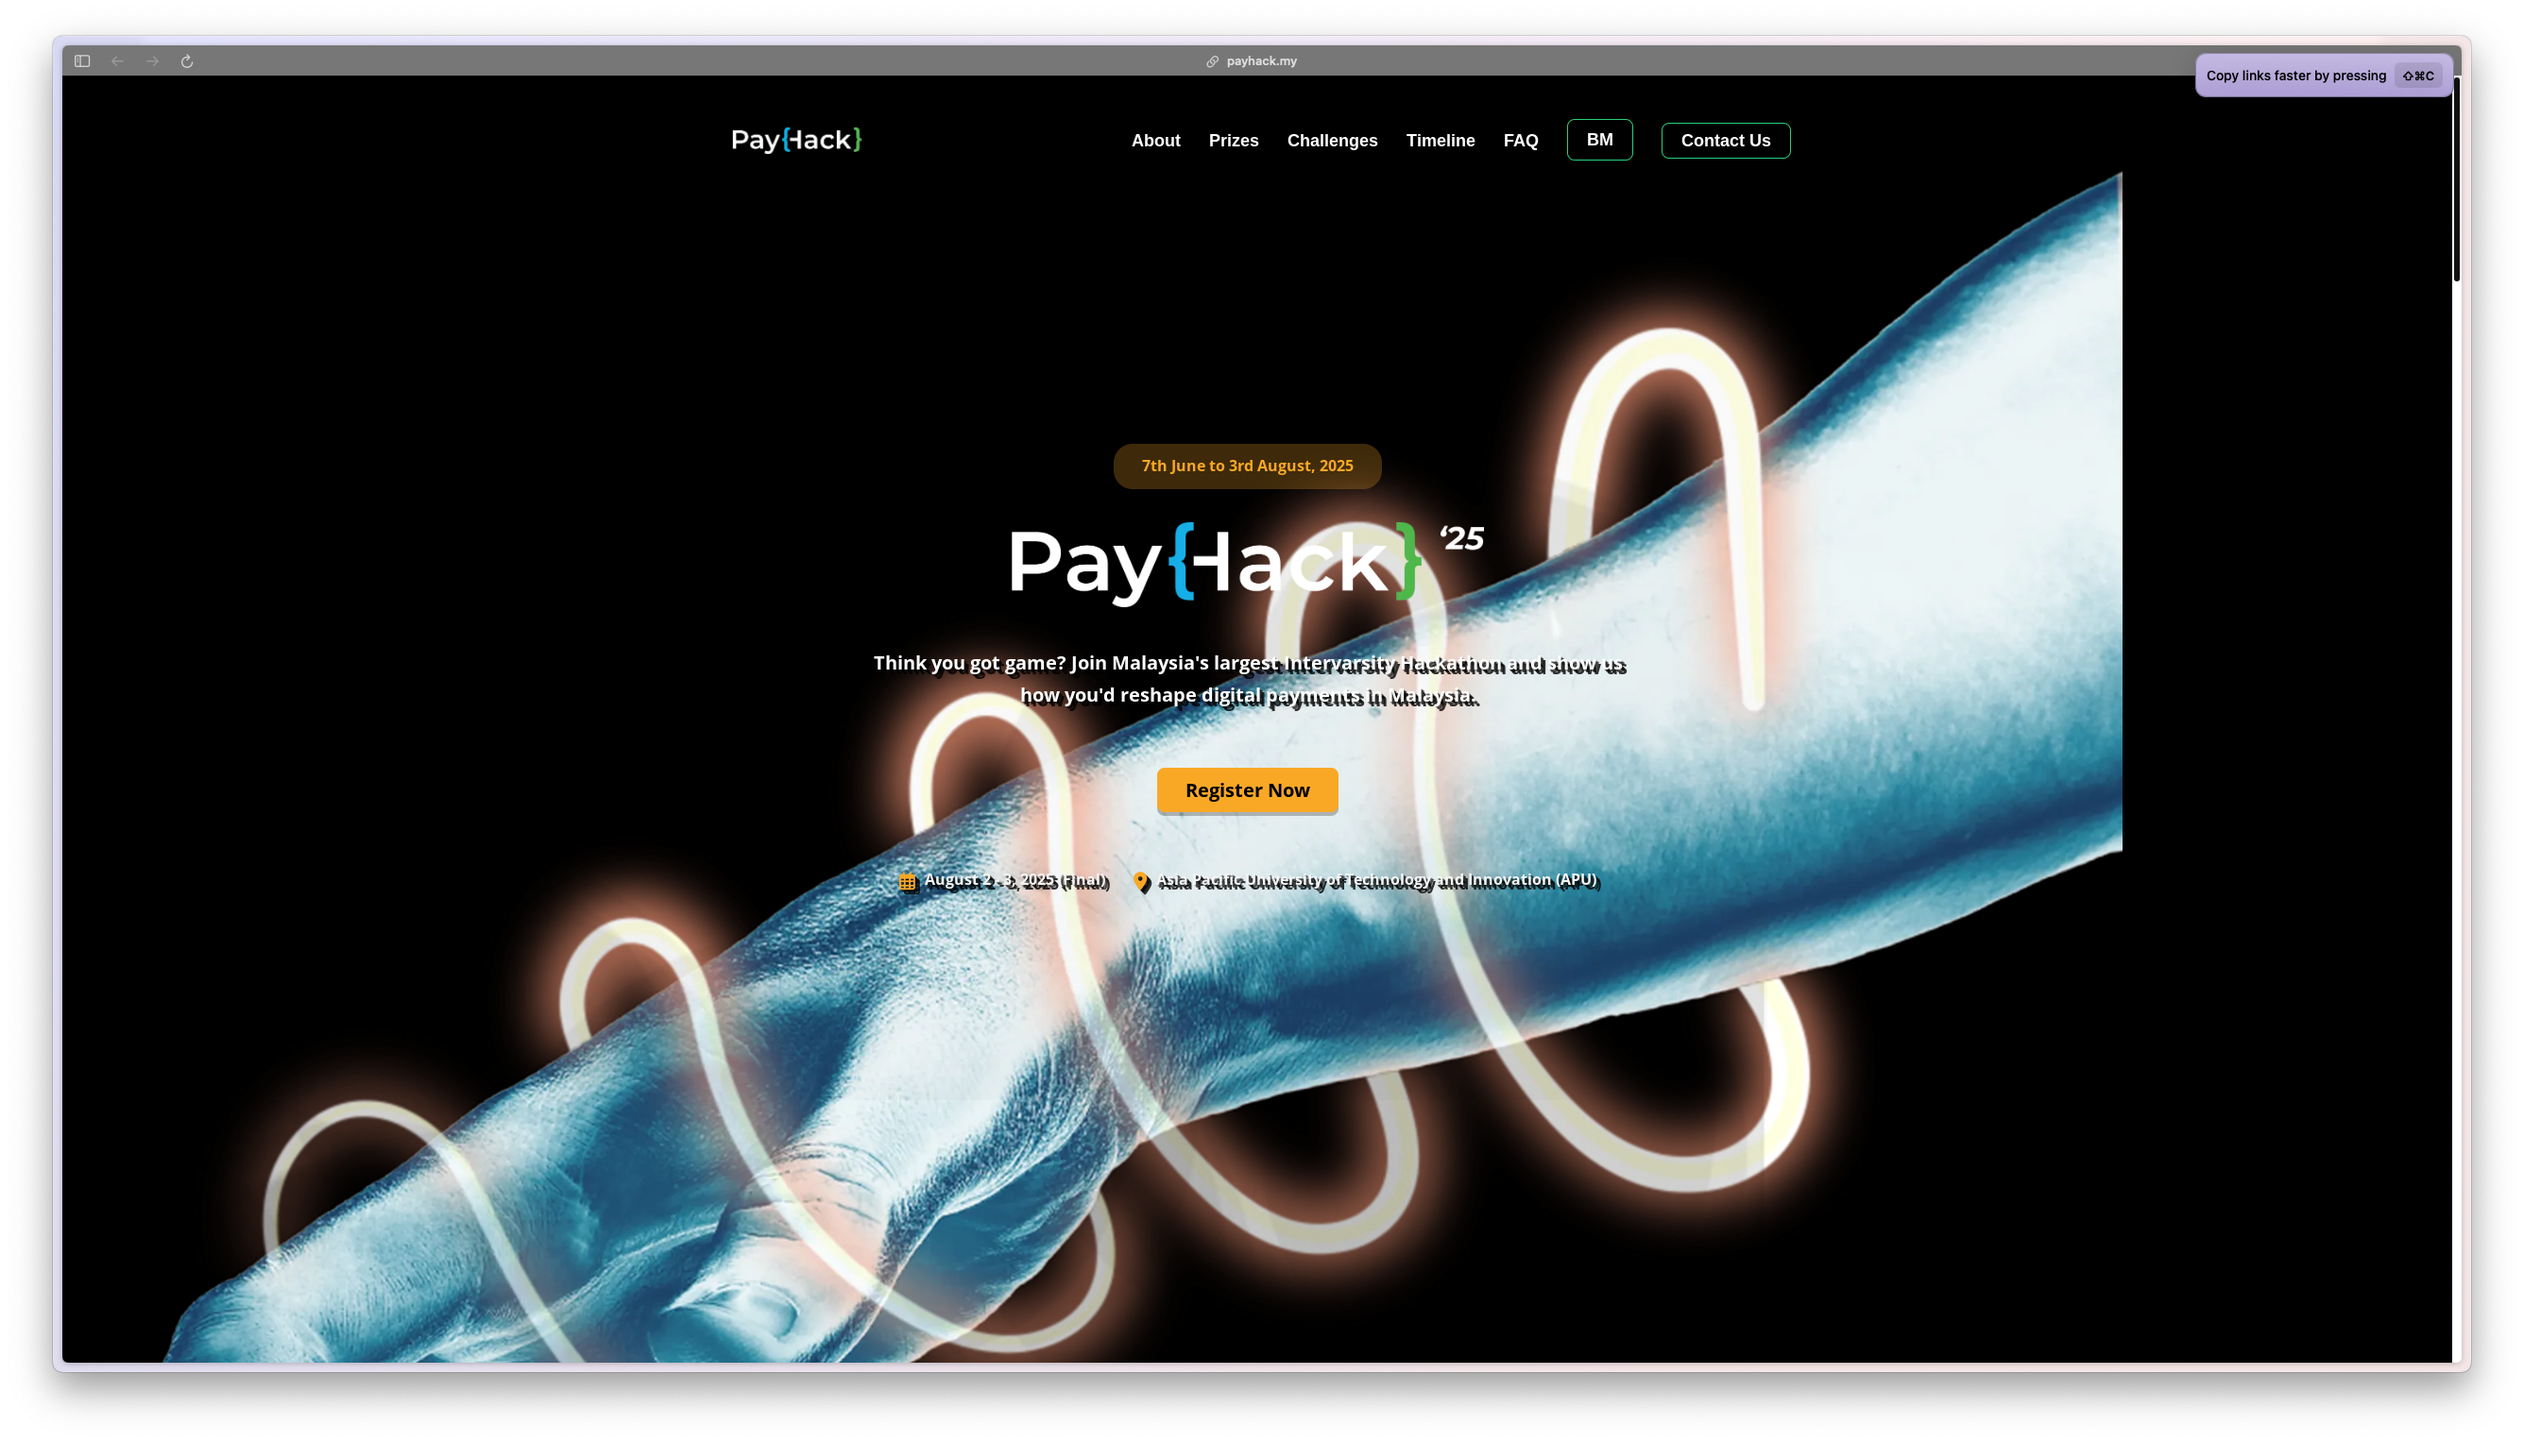
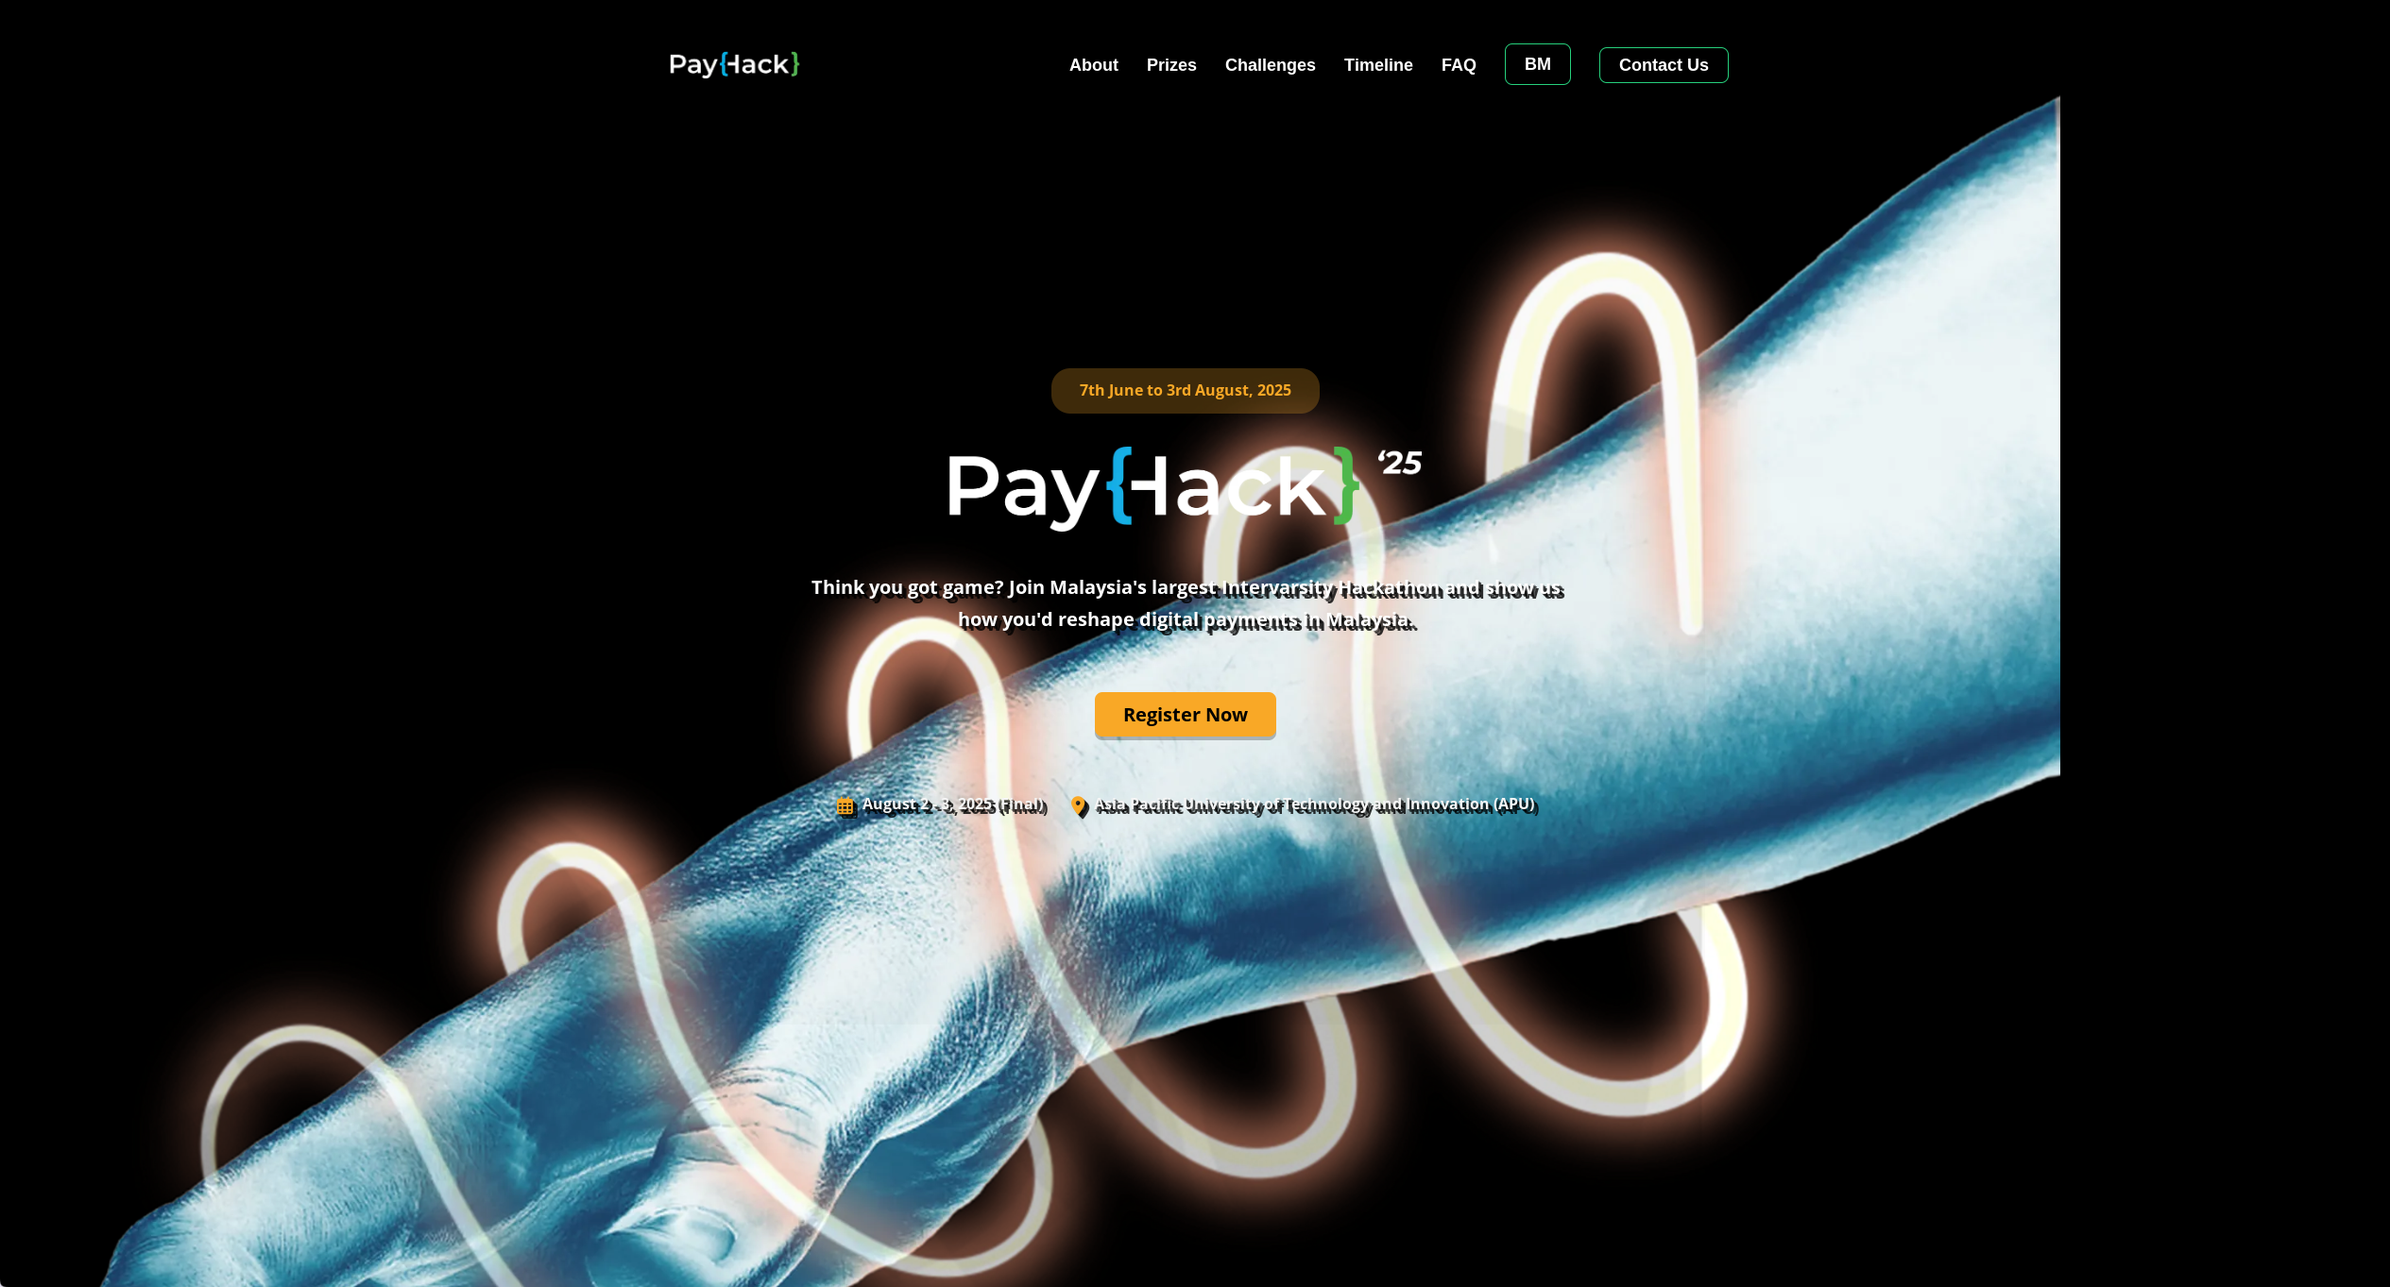
fix: replaced iframe for payhack with screenshot

diff --git a/index.html b/index.html
@@ -334,7 +334,7 @@
 							</li>
 						</ul>
 					</section>
-					<section data-background-image="img/payhack.png" data-background-size="110%">
+					<section data-background-image="img/payhack.png">
 						<div style="
                             position: absolute;
                             width: 40%;
